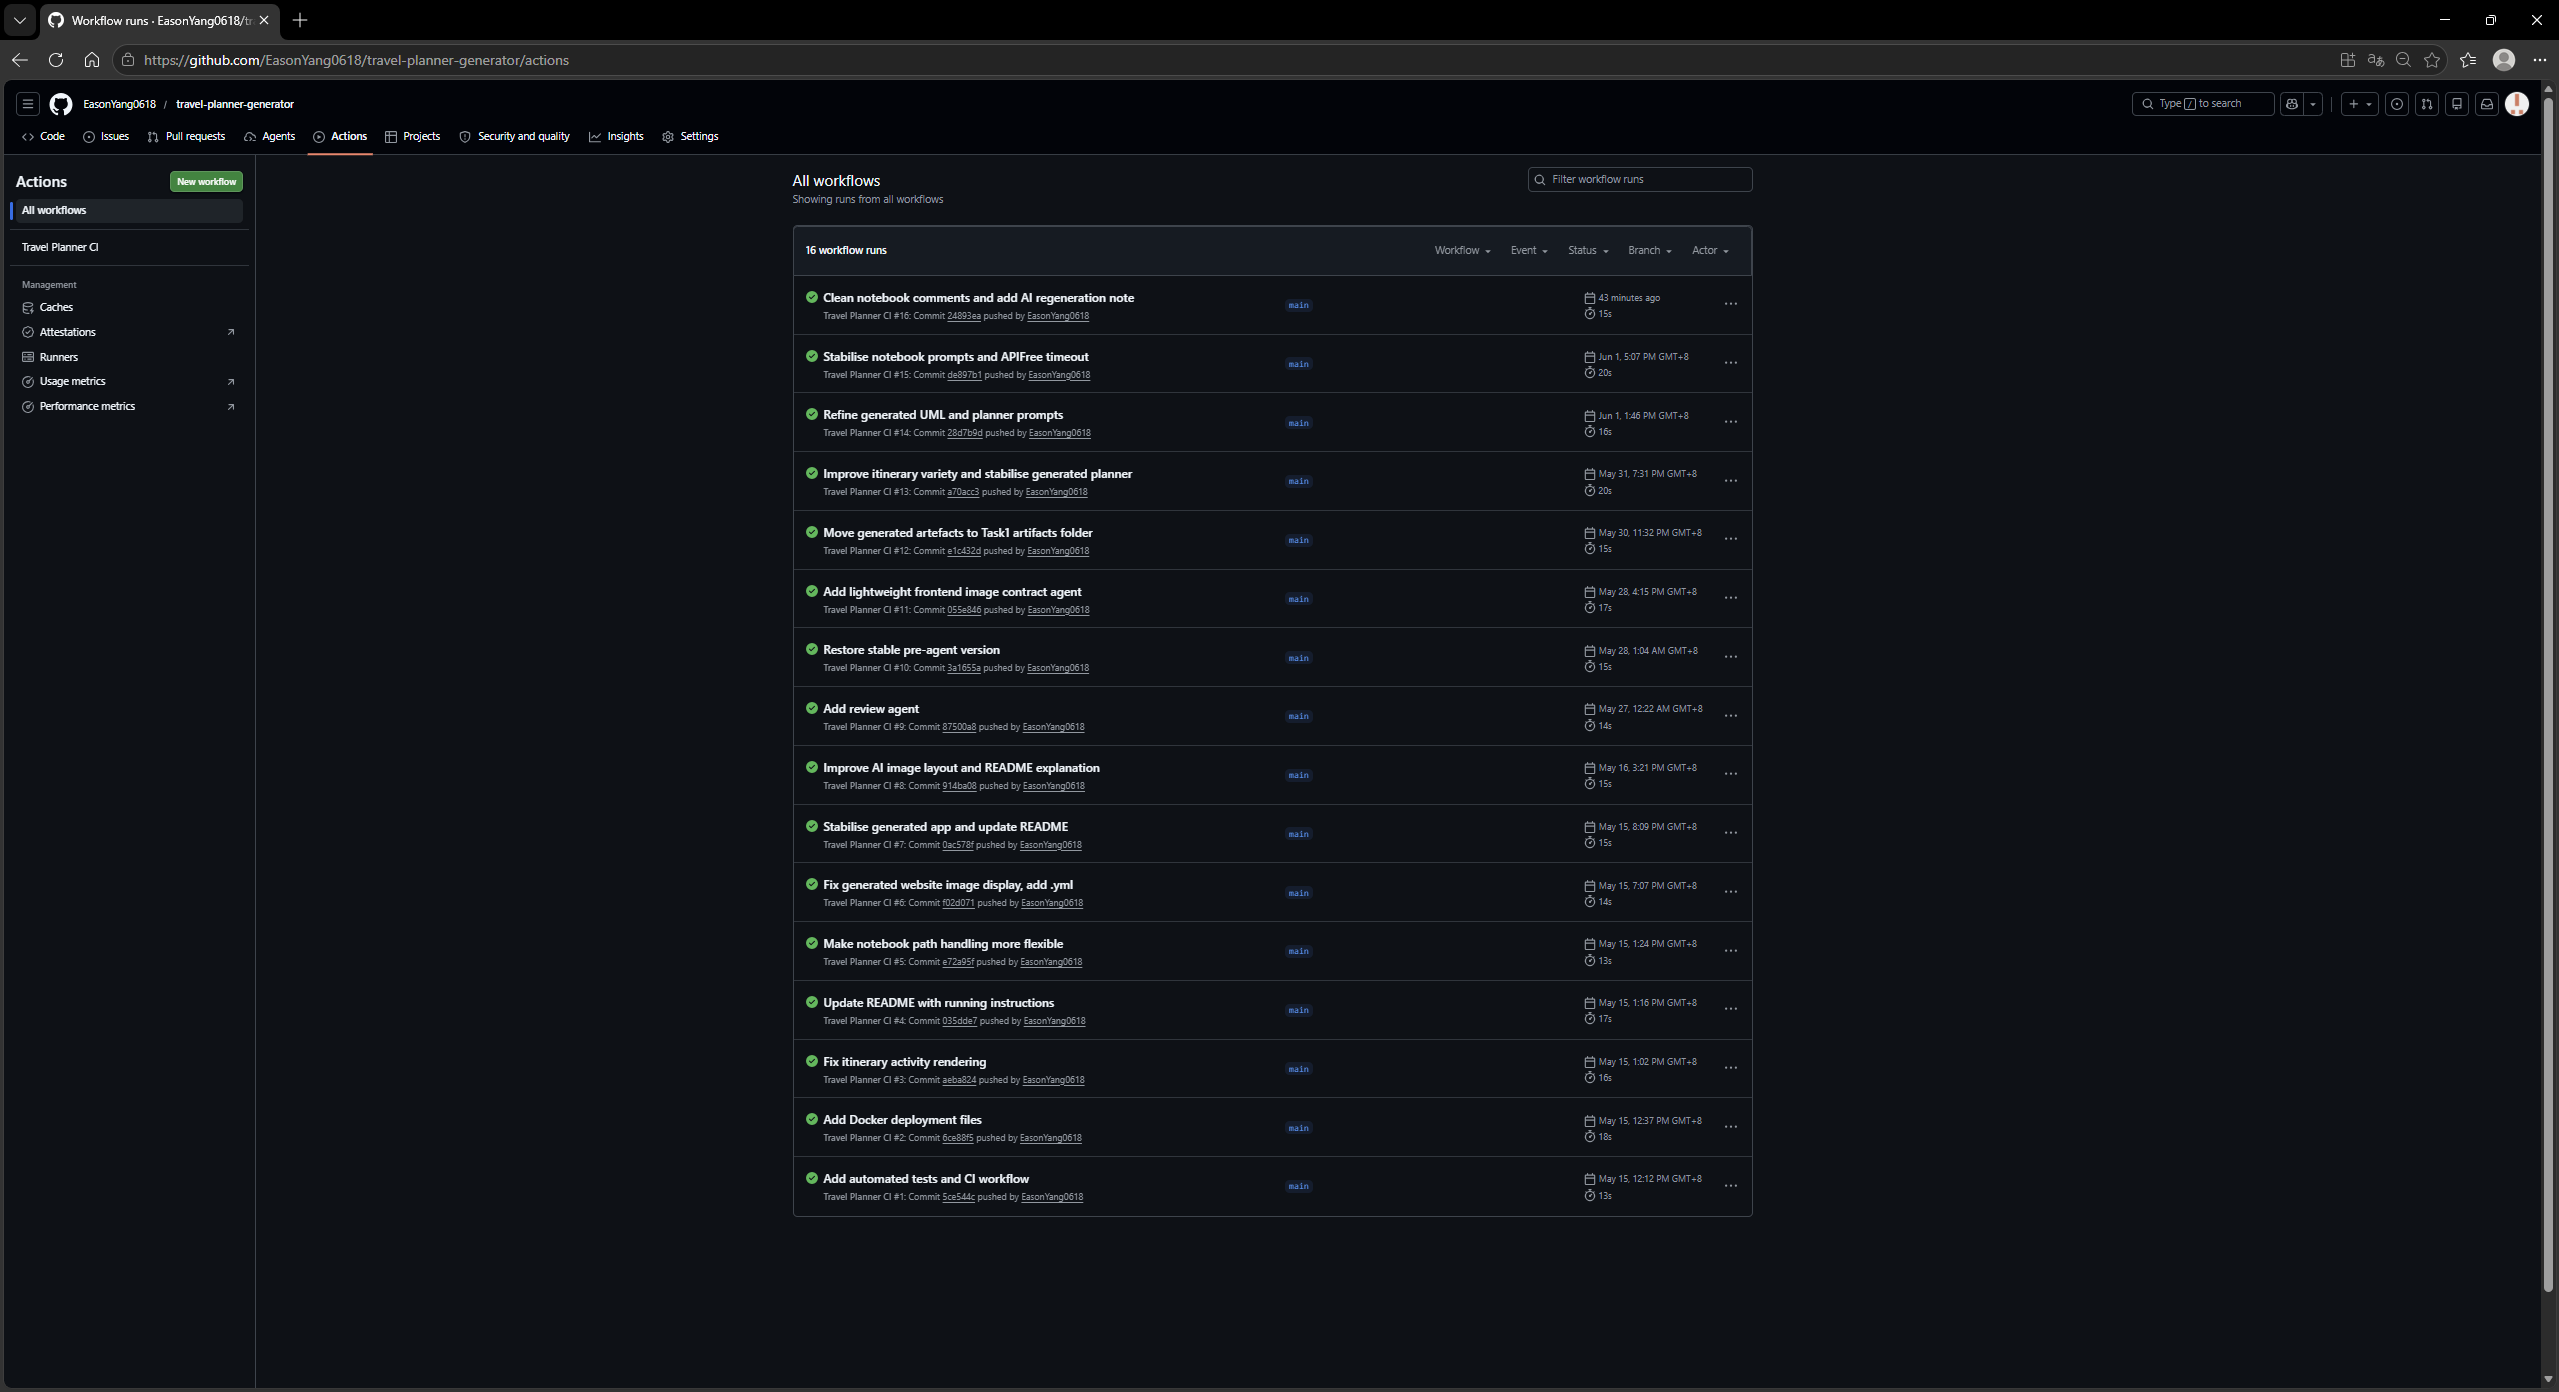
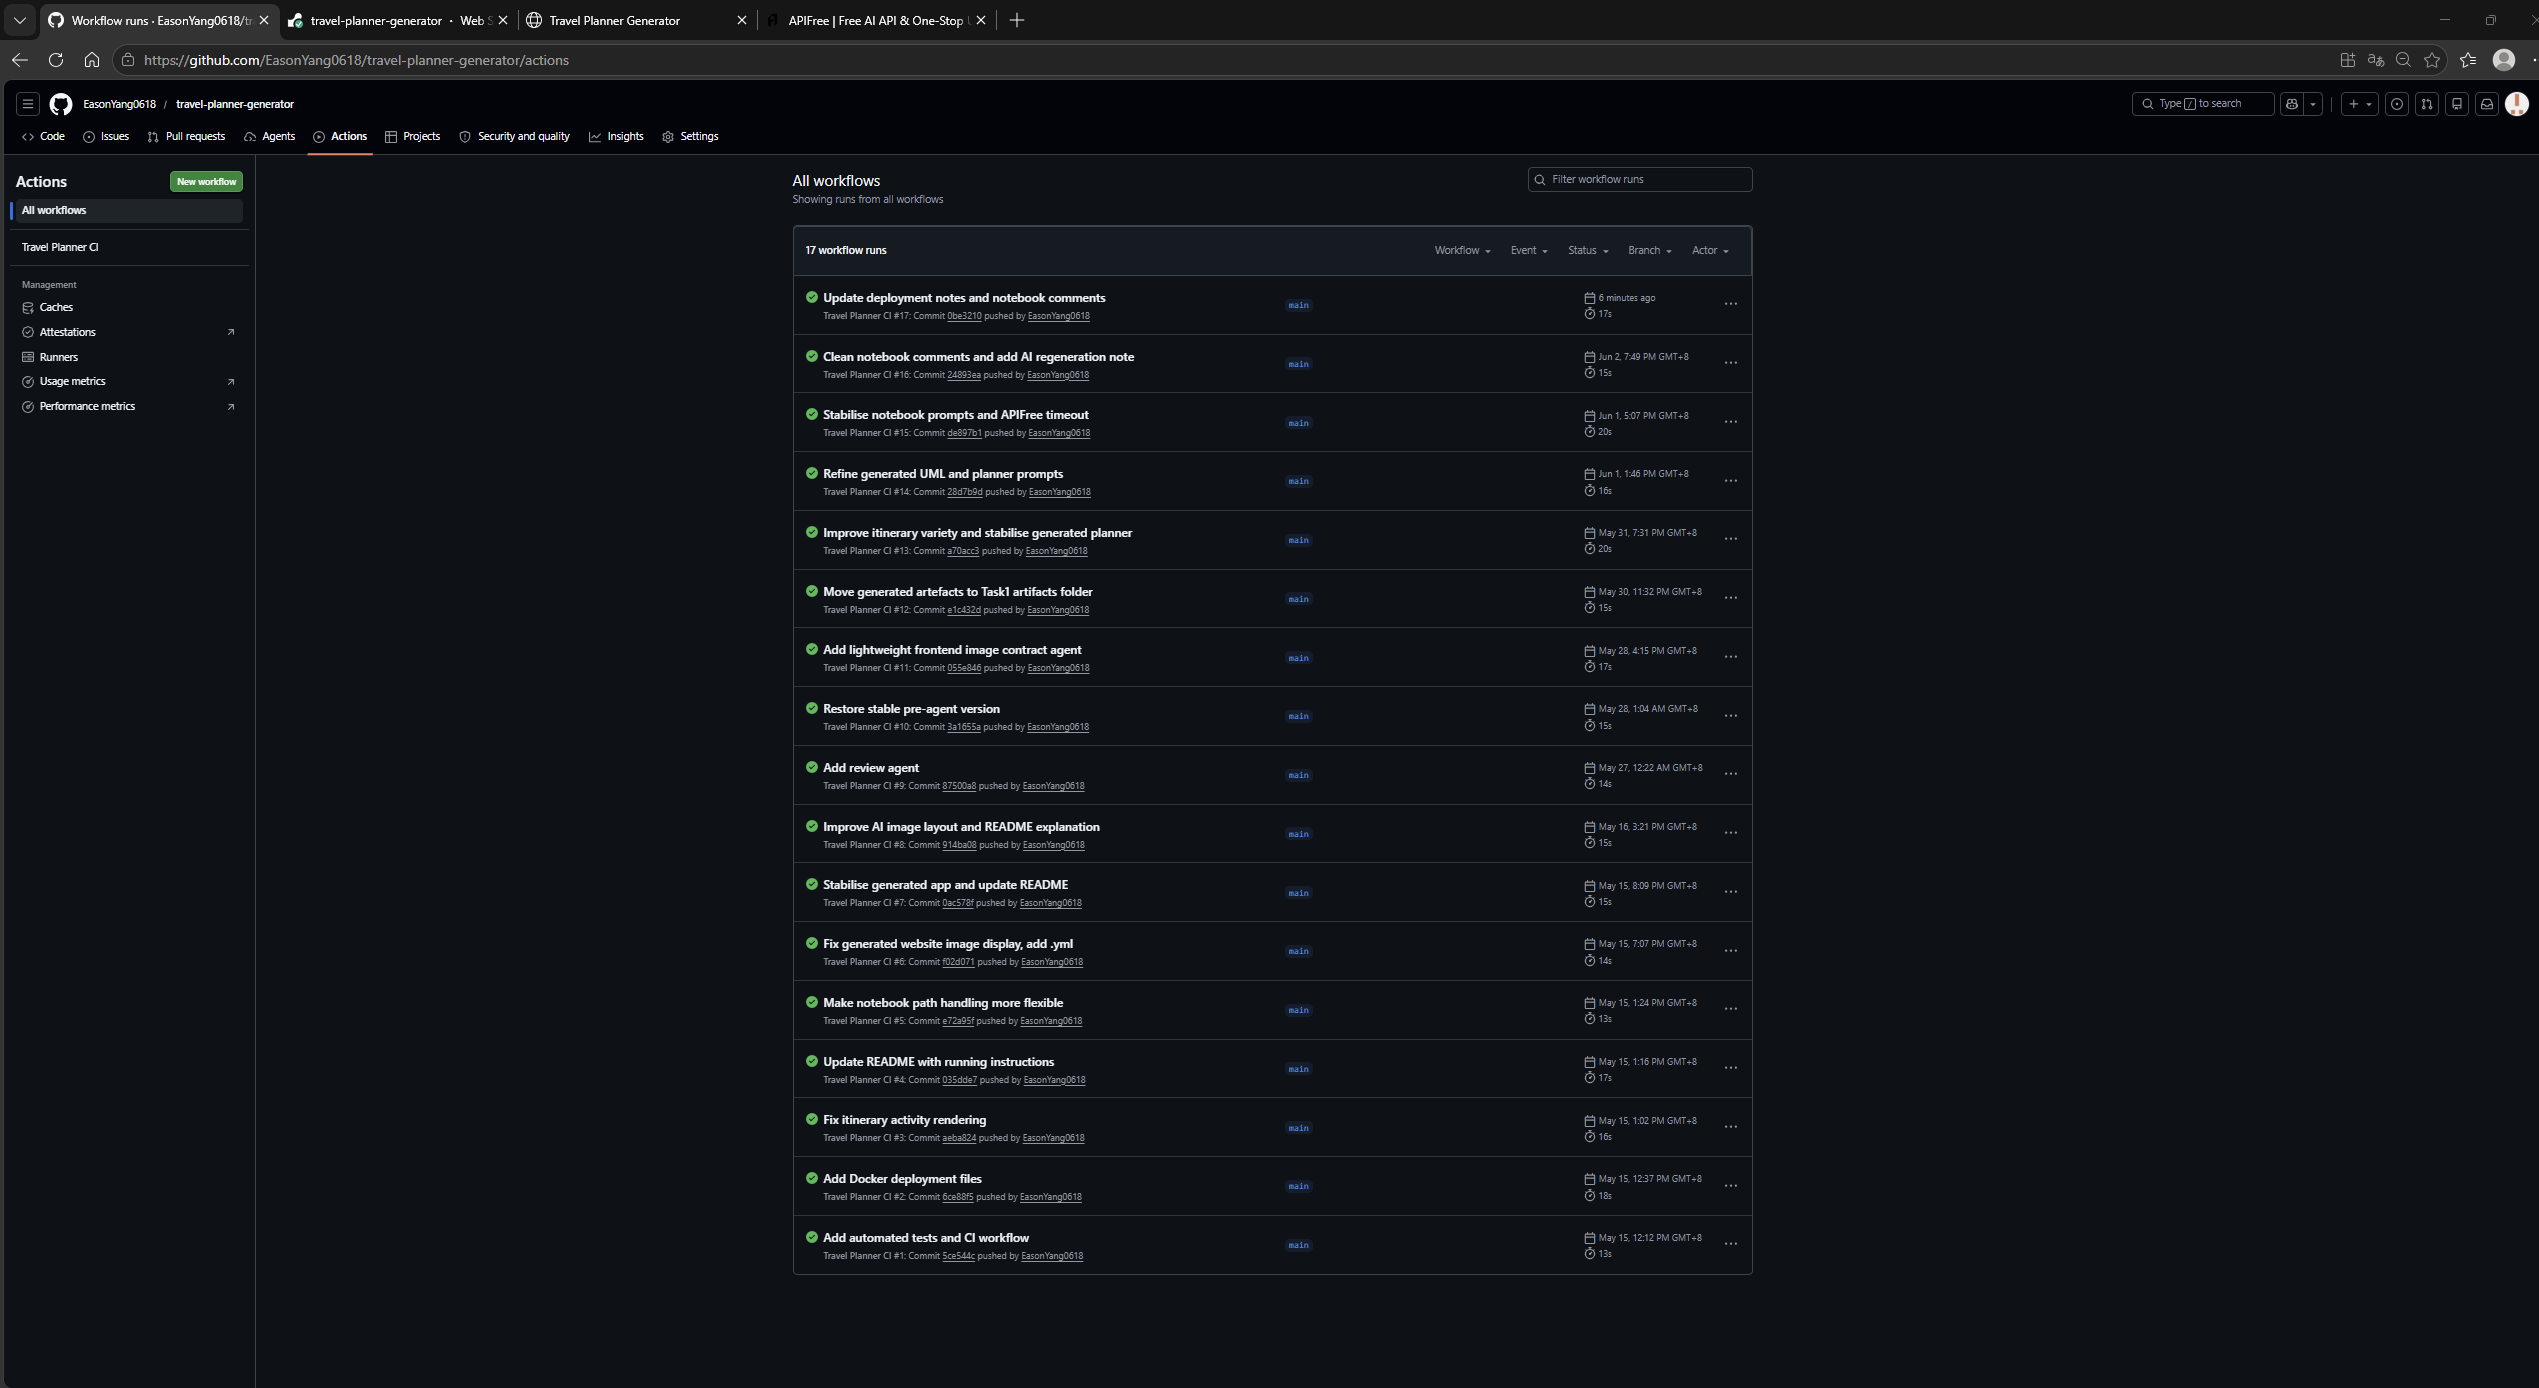
Update Render deployment notes and generated artefacts

diff --git a/README.md b/README.md
@@ -16,7 +16,7 @@ The generated website has also been deployed on Render:
 https://travel-planner-generator.onrender.com
 ```
 
-The destination image is generated only after the user enters a destination and submits the form. On the Render deployment, this feature uses the APIFree API key configured in the Render environment variables.
+The destination image is generated only after the user enters a destination and submits the form. Because the Render deployment is created under my Render account, the Render environment variables must be configured by me before testing. Therefore, I configured my own APIFree API key for the deployed site and added 10 USD credit so that the marker can test the runtime image generation feature.
 
 The notebook also uses a lightweight frontend image contract agent. This agent checks the AI-generated frontend for the default image, destination image area, and `/api/destination-image` call. If one part is missing, it adds only that frontend integration and records its actions in `Task1/artifacts/docs/frontend_image_contract_agent_report.md`.
 
@@ -60,7 +60,7 @@ The coursework conda environment file is included at:
 Task1/ai_in_se_cw.yml
 ```
 
-An APIFree API key should be provided as `APIFREE_API_KEY` in the submitted `.env` file or as an environment variable. Internet access is required for APIFree generation and PlantUML rendering. I used my own APIFree API key and added 10 USD credit so that the deployed Render website can be tested with the destination image generation feature. If the key later runs out of balance, please replace it with another valid APIFree key.
+An APIFree API key should be provided as `APIFREE_API_KEY` in the submitted `.env` file or as an environment variable. Internet access is required for APIFree generation and PlantUML rendering. For the Render deployment, I used my own APIFree key and added 10 USD credit because the cloud environment variables are configured from my Render account. If the key later runs out of balance, please replace it with another valid APIFree key when running locally.
 
 The submitted `.env` file should use this format:
 
@@ -124,7 +124,7 @@ The submitted website is deployed on Render at:
 https://travel-planner-generator.onrender.com
 ```
 
-Render runs the generated Flask app from `Task1/artifacts/app`. The APIFree key is configured in Render environment variables, so the deployed website can call APIFree when the user submits a destination and requests a destination-specific AI image.
+Render runs the generated Flask app from `Task1/artifacts/app`. Since this deployment is managed from my Render account, I pre-configured my own APIFree key in the Render environment variables and added 10 USD credit. This is to ensure that the deployed website can call APIFree when the marker submits a destination and tests the destination-specific AI image generation feature.
 
 ## Optional: Run Website Without Docker
 